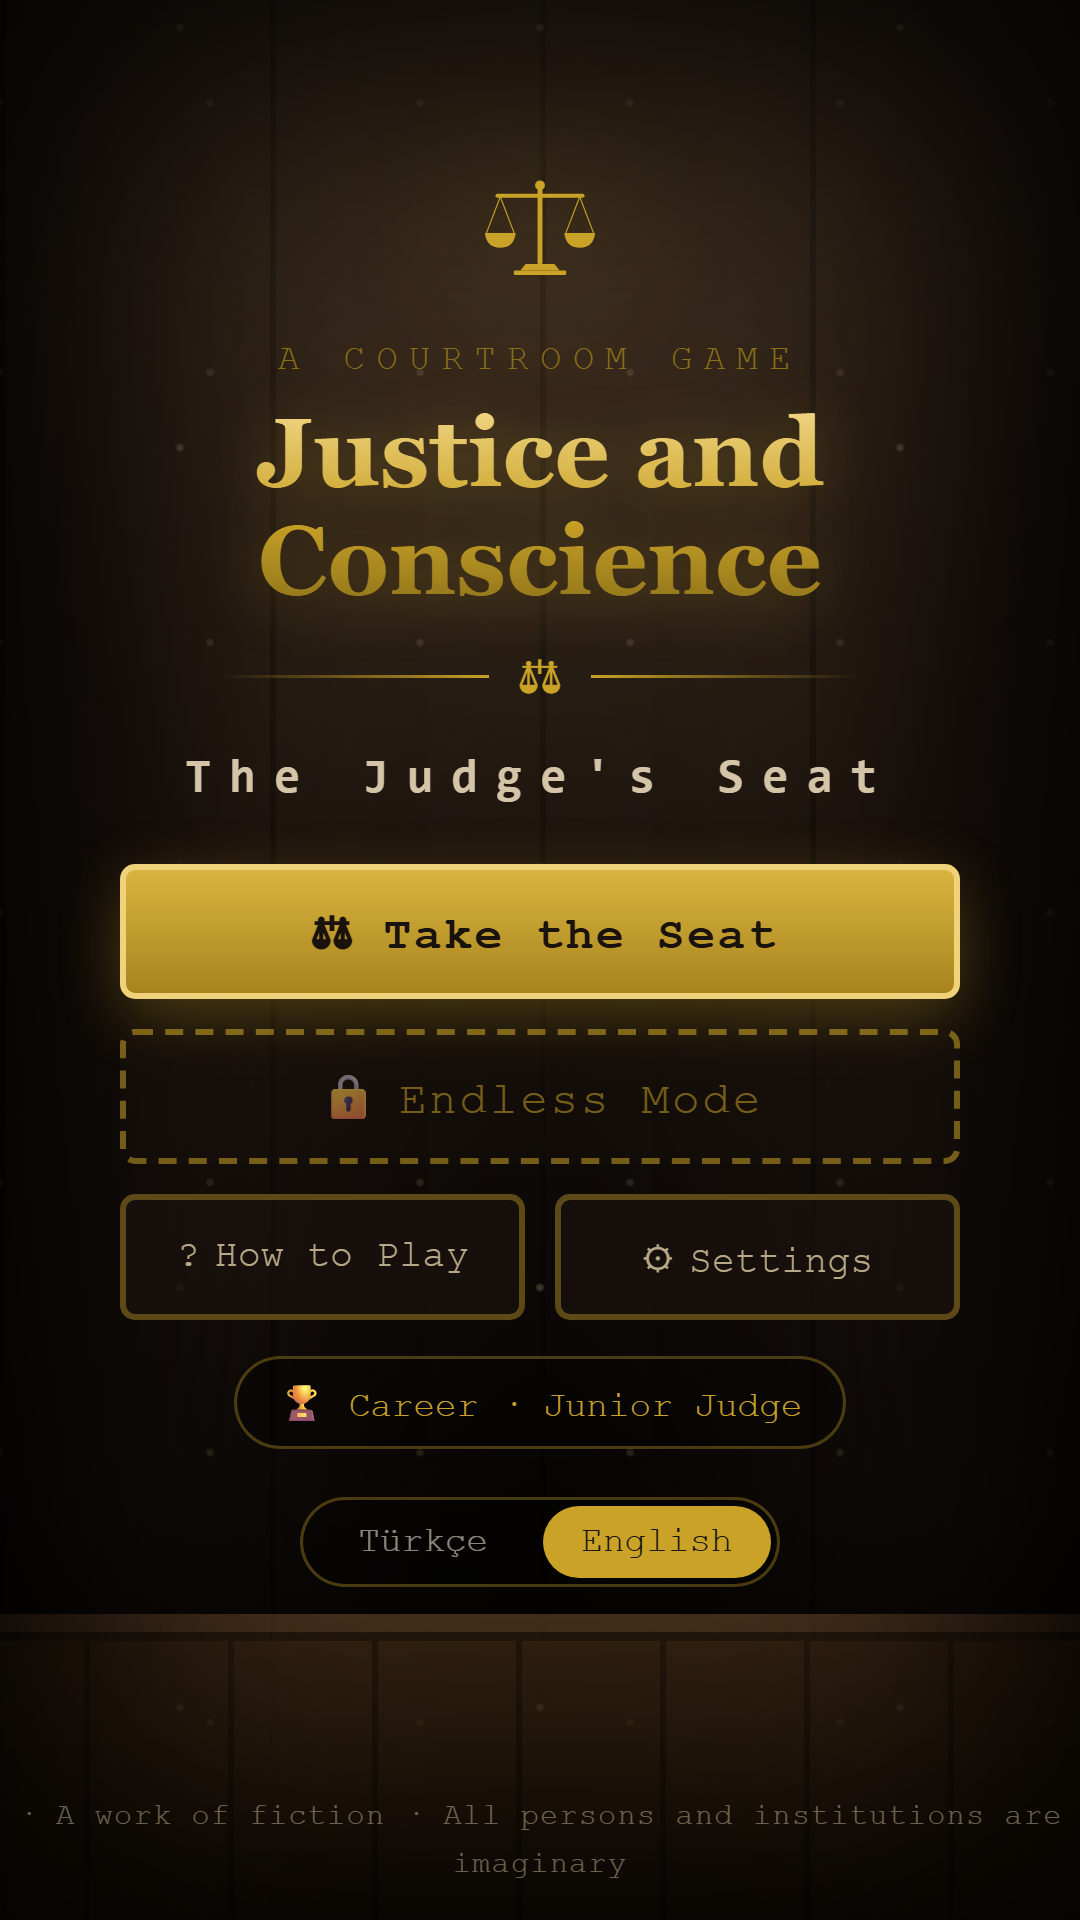
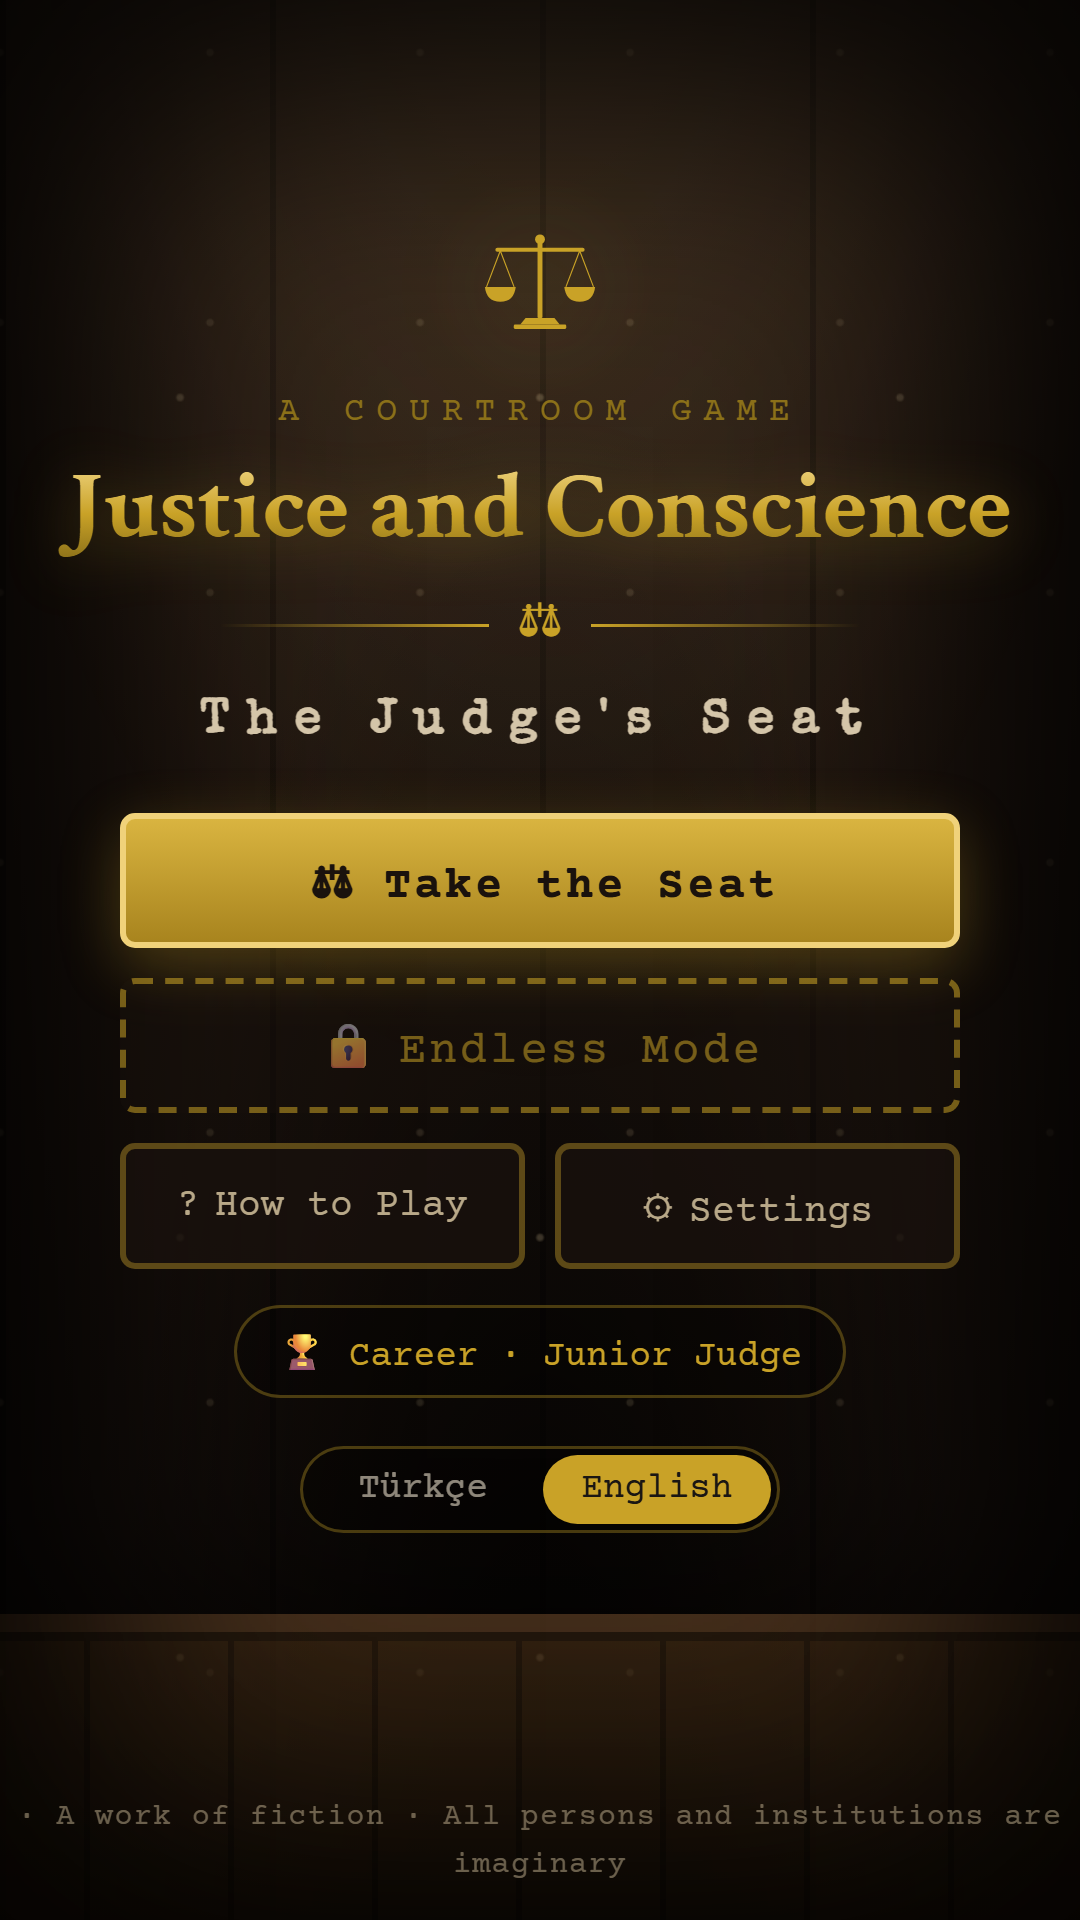
Mağaza ekran görüntüleri oyunun gerçek yazı tipleriyle yeniden çekildi; App Store için iPhone 6,9 inç ve iPad 13 inç görüntüleri eklendi (Türkçe ve İngilizce)

Changed region(s): [[0.0611, 0.0938, 0.9472, 0.8438]]

diff --git a/store/magaza-metinleri.md b/store/magaza-metinleri.md
@@ -113,5 +113,5 @@ This game is fiction. All persons, places and organizations are imaginary. It de
 - **Veri güvenliği formu / Data safety (Google Play):** Reklam kimliği ve cihaz bilgileri Google AdMob tarafından reklam ve analiz amacıyla toplanır; veriler aktarım sırasında şifrelenir; geliştirici kendisi veri toplamaz. App Store'da "Data Used to Track You: Identifiers (Advertising)".
 - **Gizlilik politikası / Privacy policy:** https://furkanozturk06.github.io/vicdanlihakim/gizlilik.html
 - **İletişim / Contact:** vicdanlihakim@gmail.com
-- **Ekran görüntüleri / Screenshots:** `store/screenshots/tr/` ve `store/screenshots/en/` (1080 × 1920)
+- **Ekran görüntüleri / Screenshots:** Google Play telefon `store/screenshots/tr/`, `en/` (1080 × 1920) · App Store iPhone 6,9" `iphone-tr/`, `iphone-en/` (1290 × 2796) · App Store iPad 13" `ipad-tr/`, `ipad-en/` (2048 × 2732)
 - **Öne çıkan görsel / Feature graphic (Google Play):** `store/feature-graphic-tr.png`, `store/feature-graphic-en.png` (1024 × 500)
